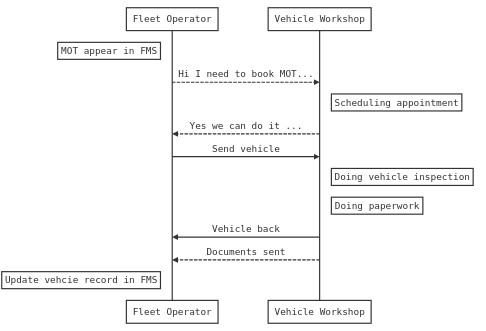
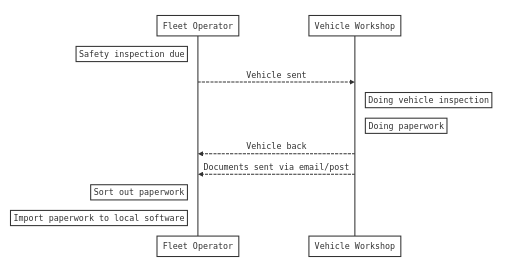
cleaning

Changed region(s): [[0.0, 0.0, 0.9877, 1.0]]

diff --git a/README.md b/README.md
@@ -26,7 +26,8 @@ Standard communication between fleet operator and vehicle workshop \
 ## Benefits
  You as a software provider for transport industry can implement this standard and share/receive documents between system automatically  
 
-## Implementation diagram
+## Implementation example
+Fleet Management software - Workshop software
 ![Implementation diagram](img/implementation-diagram.png)
 
 ## Communication and transportation channel
@@ -43,8 +44,8 @@ All communication need to be done via **https** protocol using **JSON** secured 
 ...
 
 ## Certificate
-LOGO \
-when you see this logo it means product is compatible with "Vehicle Documents Exchange Standard" and software can exchange information between any other software where this logo appears. [To find out certificated software please visit this page ](./certificated-software/README.md)
+![Logo](logo/logo-small.png) \
+When you see this logo it means product is compatible with "Fleet Software Exchange Standards" and software can exchange information between any other software where this logo appears. [To find out certificated software please visit this page ](./certificated-software/README.md)
 
  ## Certification Path
  Our certification path is very easy. To be able to display our "Vehicle Documents Exchange Standard" logo in your product you need to meet our acceptance criteria requirements and pass all rest tests.
@@ -59,7 +60,7 @@ when you see this logo it means product is compatible with "Vehicle Documents Ex
  ## JWT token
  ```
  {
- 	"vrm": ["vrm1", "vrm2"],
+ 	"vrm": ["DB51SMR", "DB52SMR"],
  	"document": ["sirhgv", "sirhgv"],
  	"providerUrl": ["https://test.co.uk/example1", "https://test.co.uk/example2"],
  	"validTo": "2021-10-1 3:00 PM GMT+1:00",

diff --git a/documentation-sources/implementation-diagram.md b/documentation-sources/implementation-diagram.md
@@ -1,14 +1,13 @@
 ```sequence
 Note over Fleet Management Software: 10 vehicles maintained
-Note right of Fleet Operator: 10 VRMs, Contract period
-Fleet Operator->Worksop: Send data to generate access key
-Worksop-->Vehicle Worksop Software: Generate JWT Token
-Worksop->Fleet Operator: send JTW token by secured channel
-Fleet Operator-->Fleet Management Software: Save JWT Token
+Fleet Operator-->Worksop: Send data to generate access key
+Worksop->Vehicle Worksop Software: Generate JWT Token
+Worksop-->Fleet Operator: send JTW token by secured channel
+Fleet Operator->Fleet Management Software: Save JWT Token
 Note over Fleet Operator, Worksop: Cooperation
-Fleet Management Software-->Vehicle Worksop Software: ask for available documents in period (JWT)
-Vehicle Worksop Software-->Fleet Management Software: sending available document ids(JWT)
-Fleet Management Software-->Vehicle Worksop Software: get available document by id(JWT)
+Note over Vehicle Worksop Software: Generate safety inspection record
+Vehicle Worksop Software->Fleet Management Software: get available documents in time period (JWT)
+Vehicle Worksop Software->Fleet Management Software: get available document by id(JWT)
 Note over Fleet Management Software: Add document to vehicle record
 
 ```
